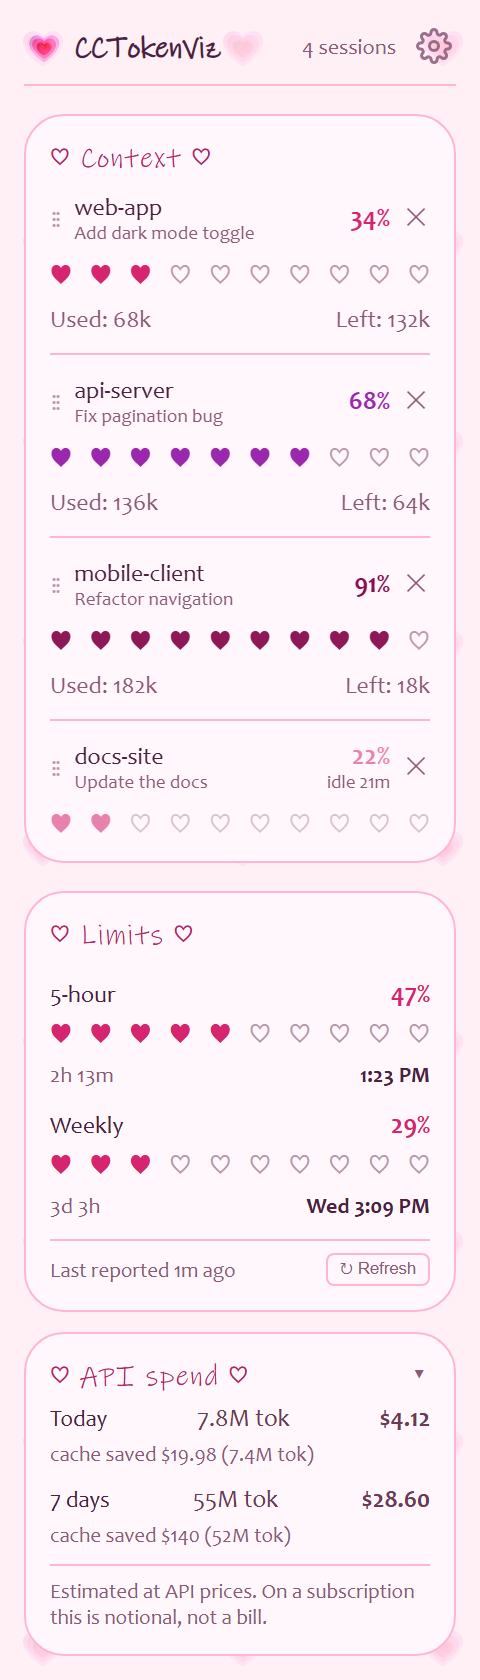
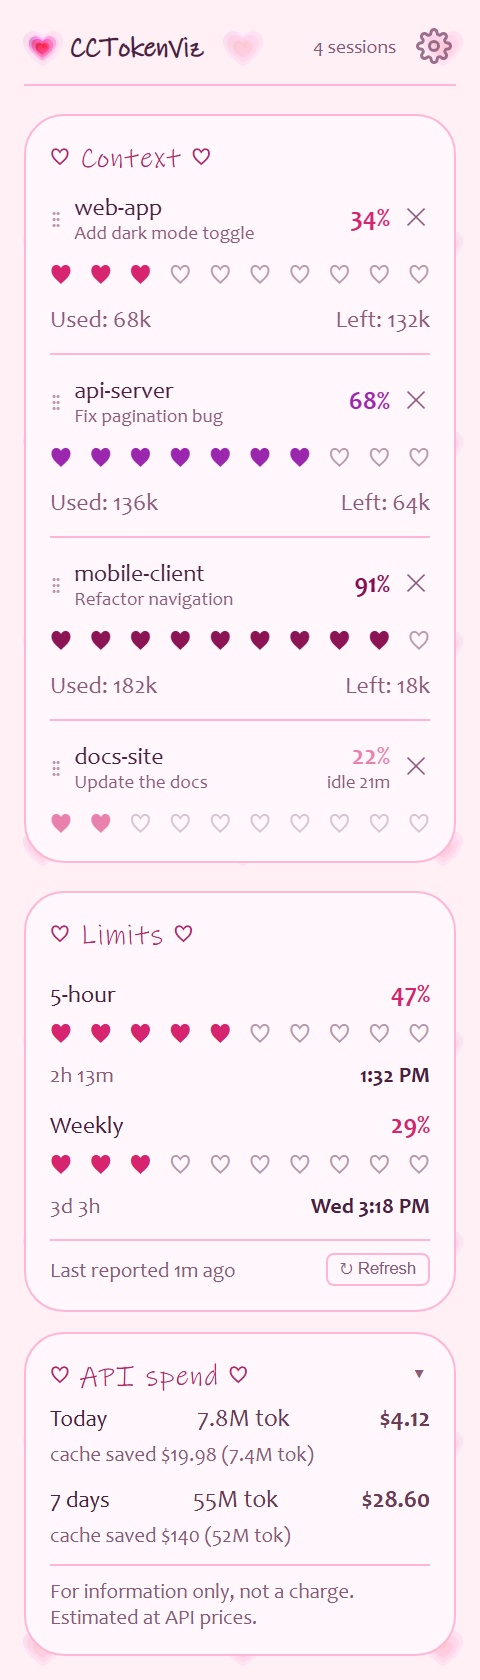
API spend: Settings-only option (off by default), clearly information only
Panel appears only when turned on; foldable once shown. Settings and panel say
it is not a charge, just a comparison with API/enterprise pricing. Tighter
header so the full name fits at 240px.

diff --git a/frontend/main.js b/frontend/main.js
@@ -146,10 +146,10 @@ function formatMoney(x) {
 
 // API spend panel: collapsed by default; the choice is remembered across launches
 async function toggleUsage() {
-    appCfg.usageOpen = !appCfg.usageOpen;
+    appCfg.usageFolded = !appCfg.usageFolded;
     try {
         const cfg = await window.go.main.App.GetSettings();
-        cfg.usageOpen = appCfg.usageOpen;
+        cfg.usageFolded = appCfg.usageFolded;
         await window.go.main.App.SaveSettings(cfg);
     } catch (error) {
         console.error('Error saving spend panel state:', error);
@@ -157,10 +157,16 @@ async function toggleUsage() {
     updateUsage();
 }
 
-// Tokens and estimated cost from the session logs. Only read while the panel is expanded.
+// Tokens and estimated cost from the session logs. Shown only if turned on in Settings, and
+// read only while the panel is expanded. Information only: it is never a charge.
 async function updateUsage() {
     const panel = document.getElementById('usage');
-    const open = !!appCfg.usageOpen;
+    if (!appCfg.showUsage) {
+        if (!panel.hidden) { panel.hidden = true; panel.innerHTML = ''; panel.dataset.open = ''; scheduleFit(); }
+        return;
+    }
+    panel.hidden = false;
+    const open = !appCfg.usageFolded;
     const head = `<button class="usage-toggle" aria-expanded="${open}" onclick="toggleUsage()"><span class="section-title">API spend</span><span class="chev">${open ? '▾' : '▸'}</span></button>`;
     if (!open) {
         if (panel.dataset.open !== '0') { panel.innerHTML = head; panel.dataset.open = '0'; scheduleFit(); }
@@ -176,7 +182,7 @@ async function updateUsage() {
             </div>
             <div class="usage-sub">cache saved ${formatMoney(p.cacheSaved)} (${formatBigTokens(p.cacheSavedTok)} tok)</div>`).join('');
         const html = `${head}${rows}
-            <div class="limits-asof"><span>Estimated at API prices. On a subscription this is notional, not a bill.</span></div>`;
+            <div class="limits-asof"><span>For information only, not a charge. Estimated at API prices.</span></div>`;
         const changed = panel.dataset.open !== '1' || panel.innerHTML.length !== html.length;
         panel.innerHTML = html;
         panel.dataset.open = '1';

diff --git a/frontend/settings.js b/frontend/settings.js
@@ -175,6 +175,15 @@ function windowSection() {
         </div>`;
 }
 
+function usageSection() {
+    return `
+        <div class="section">
+            <h2 class="section-title">API spend</h2>
+            <label><input type="checkbox" id="showUsage" ${cfg.showUsage ? 'checked' : ''}> Show tokens and estimated API cost</label>
+            <div class="hint"><b>For information only. This is not a charge and nothing is billed.</b> It adds up the usage in your Claude Code session logs (today and the last 7 days) and prices it at public API rates, plus what prompt caching saved, so you can compare your usage with what the same work would cost on the pay-as-you-go or enterprise API. On a Pro or Max plan you don't pay this. It only reads files already on your computer. Off by default.</div>
+        </div>`;
+}
+
 function limitsSection() {
     const minutes = cfg.pollMinutes || 10;
     const opts = [5, 10, 15, 30].map(m => `<option value="${m}" ${minutes === m ? 'selected' : ''}>every ${m} minutes</option>`).join('');
@@ -205,7 +214,7 @@ function renderSettings() {
     overlay().innerHTML = `
         <h2>Settings</h2>
         <p class="lead">Changes save as you make them.</p>
-        ${lookSection()}${projectsSection()}${contextSection()}${limitsSection()}${windowSection()}
+        ${lookSection()}${projectsSection()}${contextSection()}${limitsSection()}${usageSection()}${windowSection()}
         <div class="nav">
             <button class="btn" data-action="rerun">Run setup again</button>
             <span class="spacer"></span>
@@ -356,6 +365,11 @@ function setupOverlayEvents() {
             if (t.checked && !cfg.pollMinutes) cfg.pollMinutes = 10;
             persist();
             rerender();
+        } else if (t.id === 'showUsage') {
+            cfg.showUsage = t.checked;
+            appCfg.showUsage = t.checked;
+            persist();
+            updateUsage();
         } else if (t.id === 'fixedSize') {
             cfg.fixedSize = t.checked;
             persist();

diff --git a/frontend/style.css b/frontend/style.css
@@ -53,7 +53,7 @@ header {
 
 header h1 {
     font-family: var(--font-head);
-    font-size: 1.15em;
+    font-size: 1.05em;
     font-weight: 700;
     color: var(--strong);
     flex: 1;
@@ -69,7 +69,7 @@ header h1::before {
 }
 
 .status {
-    font-size: 0.85em;
+    font-size: 0.75em;
     color: var(--dim);
     white-space: nowrap;
     flex-shrink: 0; /* the count matters more than the end of the title */
@@ -753,6 +753,7 @@ a:hover, a:focus-visible { color: var(--strong); }
 
 /* Spend panel */
 .usage { margin-top: 10px; gap: 4px; }
+.usage[hidden] { display: none; }
 .usage-toggle { display: flex; justify-content: space-between; align-items: center; width: 100%; background: none; border: none; padding: 0; color: inherit; font: inherit; cursor: pointer; }
 .usage-toggle .section-title { margin: 0; }
 .usage-toggle .chev { color: var(--dim); }

diff --git a/frontend/wailsjs/go/models.ts b/frontend/wailsjs/go/models.ts
@@ -9,7 +9,8 @@ export namespace main {
 	    hiddenProjects: string[];
 	    pollLimits: boolean;
 	    pollMinutes: number;
-	    usageOpen: boolean;
+	    showUsage: boolean;
+	    usageFolded: boolean;
 	    theme: string;
 	    accent: string;
 	    font: string;
@@ -31,7 +32,8 @@ export namespace main {
 	        this.hiddenProjects = source["hiddenProjects"];
 	        this.pollLimits = source["pollLimits"];
 	        this.pollMinutes = source["pollMinutes"];
-	        this.usageOpen = source["usageOpen"];
+	        this.showUsage = source["showUsage"];
+	        this.usageFolded = source["usageFolded"];
 	        this.theme = source["theme"];
 	        this.accent = source["accent"];
 	        this.font = source["font"];

diff --git a/docs/preview/demo-stub.js b/docs/preview/demo-stub.js
@@ -5,7 +5,7 @@
     const now = Math.floor(Date.now() / 1000);
     const cfg = {
         projects: [], activeMinutes: 30, contextTokens: 200000, projectFolders: [], projectContext: null,
-        hiddenProjects: [], pollLimits: true, pollMinutes: 10, usageOpen: q.get('spend') === '1',
+        hiddenProjects: [], pollLimits: true, pollMinutes: 10, showUsage: q.get('spend') === '1', usageFolded: false,
         theme: q.get('theme') || 'linux', accent: '', font: '', fontSize: 0, setupDone: true, fixedSize: true,
     };
     const s = (id, name, title, pct, idle) => ({

diff --git a/config.go b/config.go
@@ -28,7 +28,8 @@ type Config struct {
 	PollMinutes int  `json:"pollMinutes"` // gap between automatic polls (default 10, minimum 5)
 
 	// API spend panel
-	UsageOpen bool `json:"usageOpen"` // the API spend panel is expanded (collapsed by default)
+	ShowUsage   bool `json:"showUsage"`   // show the API spend panel (off by default)
+	UsageFolded bool `json:"usageFolded"` // the panel is folded to its header (expanded by default)
 
 	// Look
 	Theme     string `json:"theme"`

diff --git a/README.md b/README.md
@@ -154,7 +154,8 @@ Settings are stored in `~/.cctokenviz.json`, which you never need to edit by han
   "contextTokens": 1000000,
   "projectContext": { "my-app": 1000000 },
   "hiddenProjects": ["scratch"],
-  "usageOpen": false,
+  "showUsage": false,
+  "usageFolded": false,
   "pollLimits": false,
   "pollMinutes": 10,
   "theme": "midnight",
@@ -170,7 +171,8 @@ Settings are stored in `~/.cctokenviz.json`, which you never need to edit by han
 |-----|---------|---------|
 | `projects` | all | Only show sessions in these project folders (the first folder under a `projects` directory, taken from the session's working directory and the files and commands Claude is working on, latest wins) |
 | `hiddenProjects` | none | Projects that are never shown, even with new activity. Tick "hide" next to a project in Settings. (The ✕ on a row only hides that session until it has new activity.) |
-| `usageOpen` | false | Whether the API spend panel is expanded. Click its header to toggle; the choice is remembered |
+| `showUsage` | false | Show the API spend panel (Settings → API spend). Information only, never a charge |
+| `usageFolded` | false | Whether the API spend panel is folded to its header. Click the header to toggle; the choice is remembered |
 | `activeMinutes` | 60 | How long a session can go without activity before its row is marked idle (it stays listed) |
 | `contextTokens` | 200000 | Fallback context window, for projects with no detected size and no override (use 1000000 for 1M-context models) |
 | `projectFolders` | none | Folders you added in Settings: a single project, or a folder that holds several. Projects are also found from your Claude Code sessions, from any `projects` directory they use, and by the nearest enclosing folder with a `.git`, `go.mod`, `package.json` etc. |
@@ -183,7 +185,7 @@ Settings are stored in `~/.cctokenviz.json`, which you never need to edit by han
 
 ## API spend (optional)
 
-Under the limits there is a collapsed **API spend** panel. Click its header to expand it; CCTokenViz remembers your choice. It adds up the token usage recorded in your Claude Code session logs (including sub-agents) for **today** and the **last 7 days**, and shows:
+Turn on **Settings → API spend** to add a panel under the limits. It is off by default, and you can fold it to its header with a click; CCTokenViz remembers that. **It is information only, not a charge:** it lets you compare your usage with what the same work would cost on the pay-as-you-go or enterprise API. It adds up the token usage recorded in your Claude Code session logs (including sub-agents) for **today** and the **last 7 days**, and shows:
 
 - total tokens, and the **estimated cost** at public API prices (input, output, cache reads and cache writes priced separately),
 - how much **prompt caching saved**: cache-read tokens priced at the normal input rate, minus what they actually cost.
